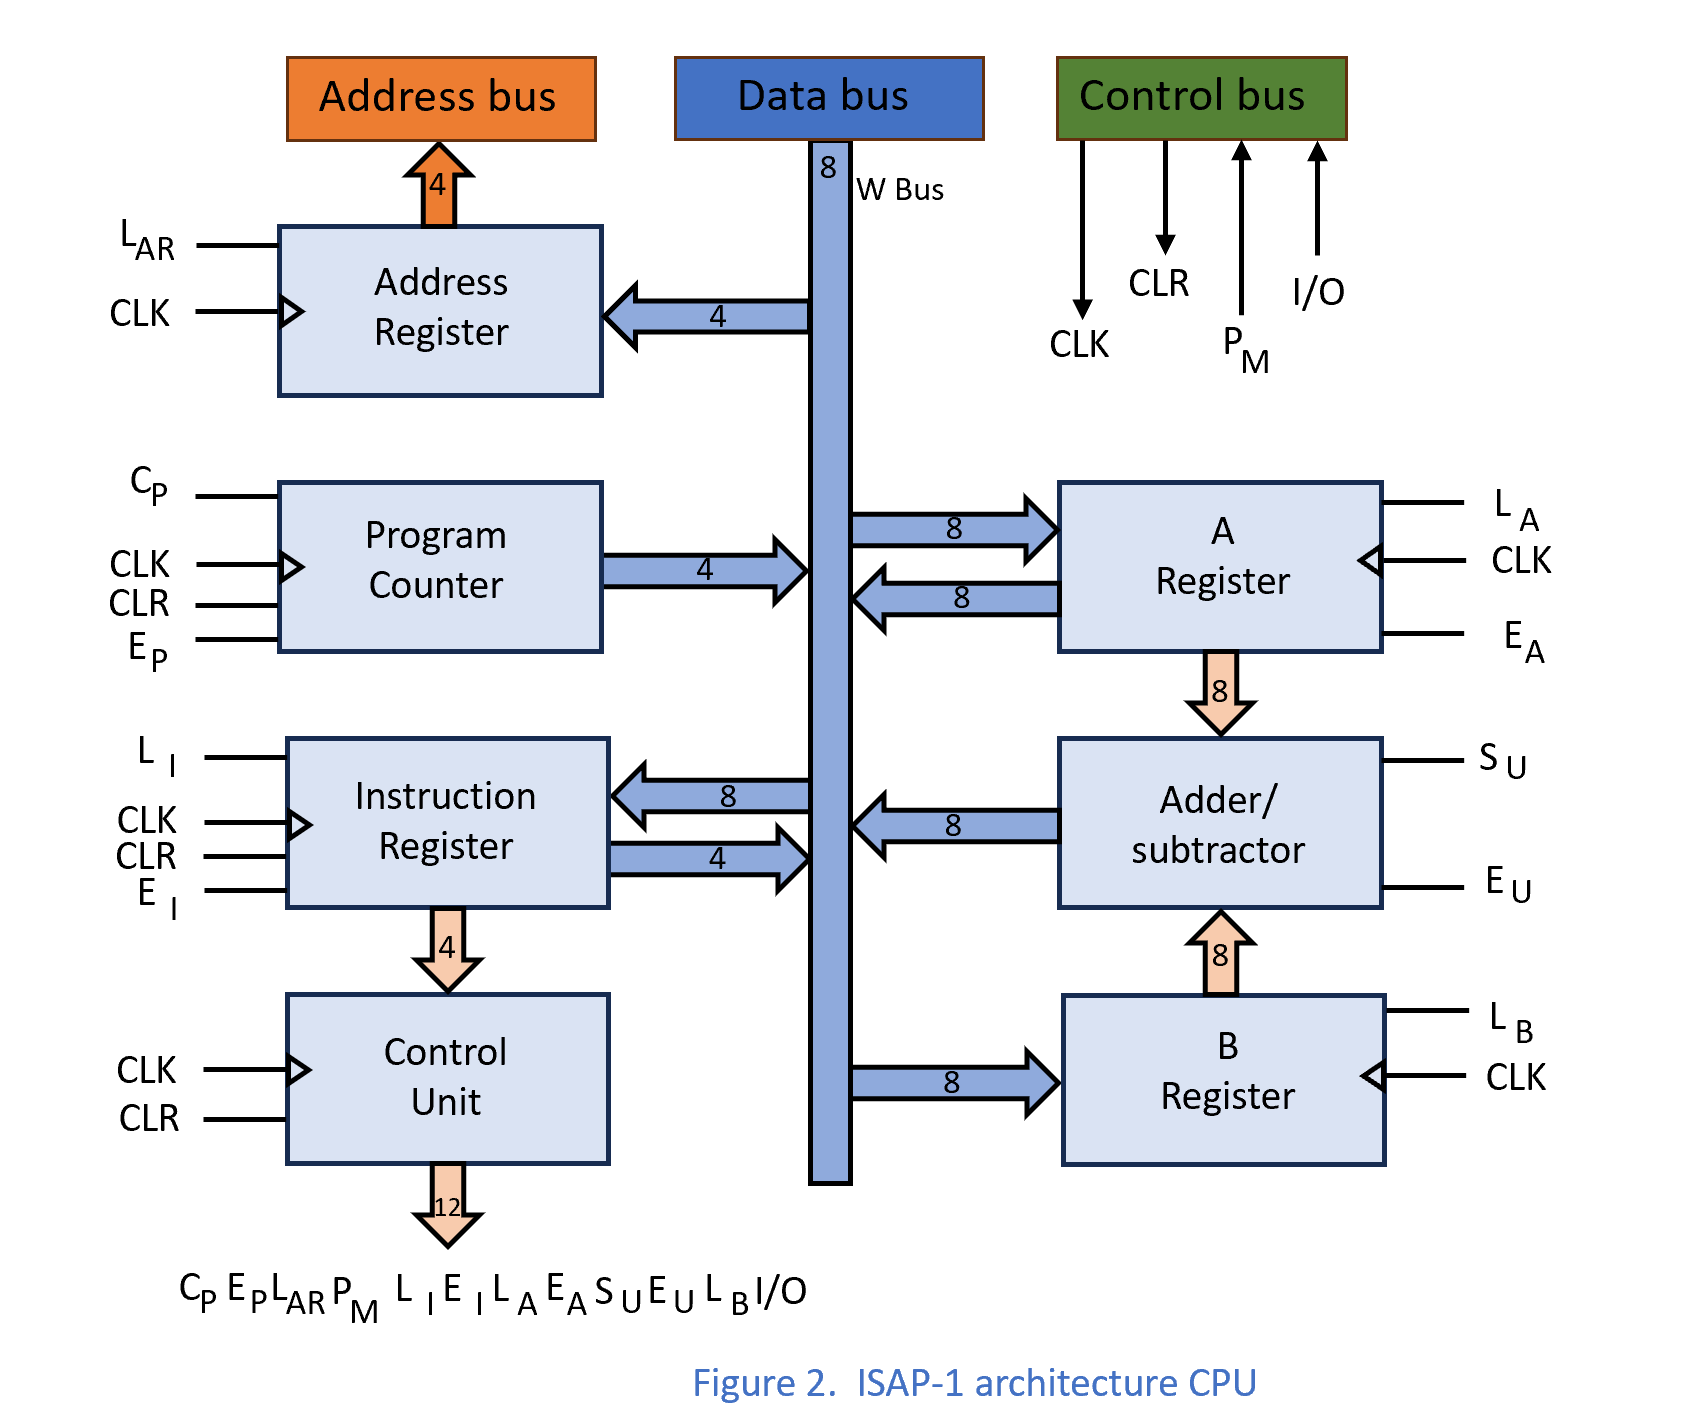
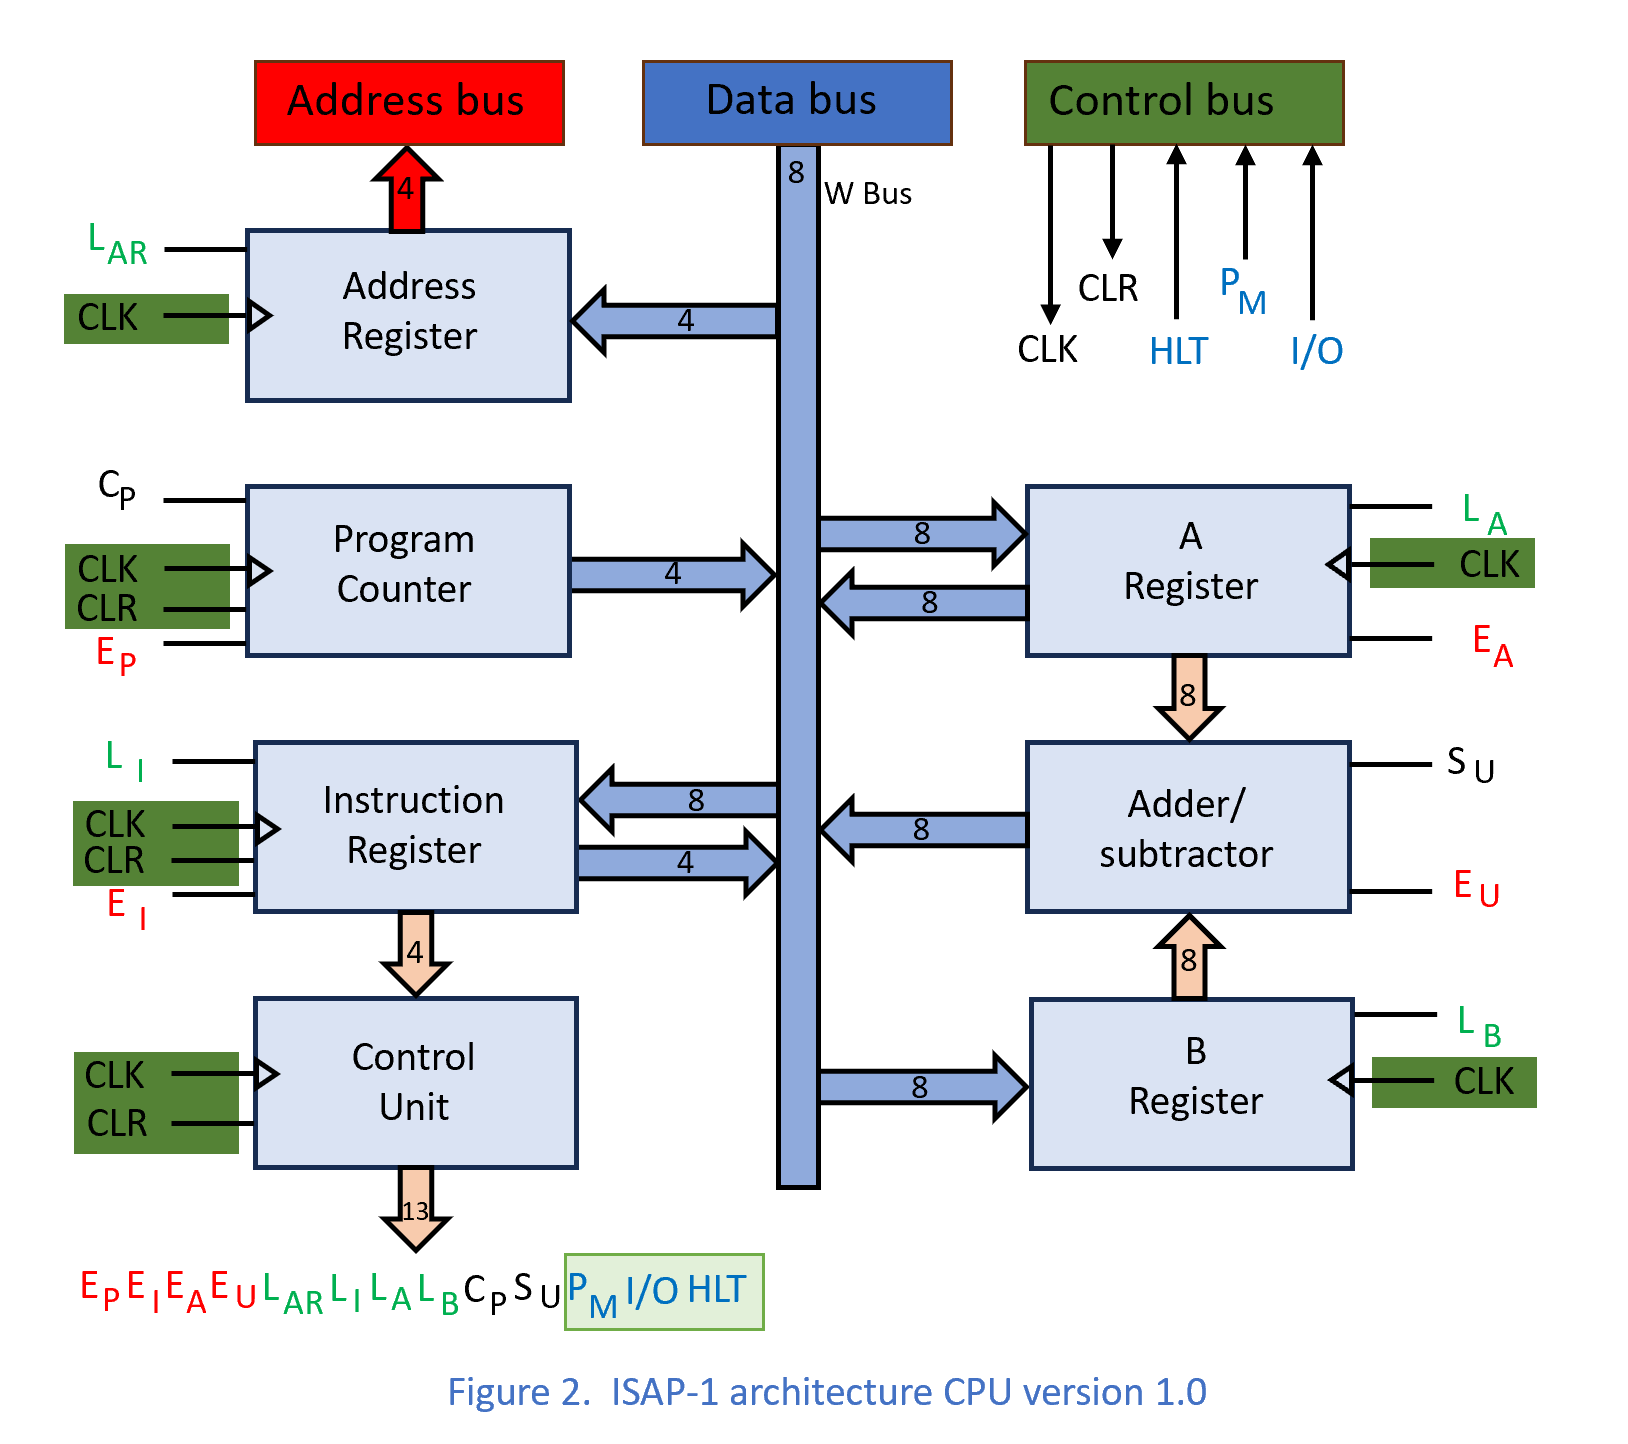
modified:   Pictures/Figure11.png modified:   Pictures/Figure2.png

diff --git a/README.md b/README.md
@@ -18,42 +18,16 @@ https://github.com/LincaMarius/ISAP-Computer
 
 where I optimized the SAP-1 computer to create the ISAP-1 computer.
 
-## ISAP-1 Model A Version 1
-
-The Structure of the ISAP-1 computer is:
+## ISAP-1 TTL version 1.0
+The Structure of the ISAP-1 version 1.0 computer is:
 
 ![ Figure 1 ](/Pictures/Figure1.png)
 
-The Block Diagram of the Central Processing Unit of the ISAP-1 computer is:
+The block diagram of the Central Processing Unit of the ISAP-1 computer version 1.0 is:
 
 ![ Figure 2 ](/Pictures/Figure2.png)
 
-### The format of the SAP-1 computer instructions is:
-
-| 4 bits instruction code   | 4 bits operand (memory address)          |
-|---------------------------|------------------------------------------|
-
-We notice that the upper nibble is used to encode an instruction.
-
-So, any instruction is encoded on 4 bits.
-
-Thus, we can have a maximum of 2 ^ 4 = 16 instructions.
-
-### The original instruction set of the SAP-1 computer is:
-
-| Mnemonic | Opcode | Operation                                  |
-|----------|--------|--------------------------------------------|
-| LDA      | 0000   | Load RAM data into Accumulator             |
-| ADD      | 0001   | Add RAM data to Accumulator                |
-| SUB      | 0010   | Substract RAM data from accumulator        |
-| OUT      | 1110   | Load Accumulator data into Output Register |
-| HLT      | 1111   | Stop processing                            |
-
-We can notice that the instructions 0011, 0100, 0101, 0110, 0111, 1000, 1001, 1010, 1011, 1100, 1101 are not used. So we can add 11 more new instructions.
-
-In total, 5 out of 16 possible instructions are implemented.
-
-In order to simulate the SAP-1 computer using the Logisim program, we must design each individual module that makes up the computer.
+In order to simulate the SAP-1 computer using the Logisim program, we must design each individual module that makes up the SAP-1 computer.
 
 For this purpose we must use the detailed block diagram of the SAP-1 computer which is presented in the following figure.
 
@@ -62,13 +36,14 @@ For this purpose we must use the detailed block diagram of the SAP-1 computer wh
 The first block to be implemented is Clock and Reset
 
 ### Clock and Reset Implementation
-The Clock and Reset Block has the following output signals:
+The Clock and Reset block has the following output signals:
 - CLK – clock signal that ensures synchronism in the operation of the Computer
-- CLR – computer reset signal that initializes the Program Counter, Instruction Register and Control Unit.
+- CLR – computer reset signal that initializes the Program Counter, Instruction Register and Control Unit
+- HLT – blocks the clock signal, thus the execution of any future instruction is stopped
 
-We have three control buttons:
-S5 – Reset button
-S6 – Program Step button
+We have three control buttons: \
+S5 – Reset button \
+S6 – Program Step button \
 S7 – Mode selection switch: Manual / Auto
 
 This information can be seen in figure 3.
@@ -82,8 +57,8 @@ Program Counter has the following input, output and control signals:
 - CP – Program Counter Counting - increment Program Counter content
 - CLK – Clock - clock signal that ensures synchronism in the operation of the computer
 - CLR – Clear - reset signal that initializes the Program Counter to zero
-- EP – Program Counter Enable - output activation for putting data from the Program Counter on the bus
-- DOUT – Data Output – connects to the bus
+- EP – Program Counter Enable - output activation for putting data from the Program Counter on the Bus
+- DOUT – Data Output – connects to the Bus
 
 The implementation of the Program Counter Block in Logisim is shown in the following figure:
 
@@ -116,12 +91,12 @@ Pin R is to display when this block is reading from the Bus.
 
 ### Instruction Register implementation
 The Instruction Register has the following input, output and control signals:
-- LI - loading data from the bus into the Instruction Register
+- LI - loading data from the Bus into the Instruction Register
 - CLK – clock signal that ensures synchronism in the operation of the computer
 - CLR – reset signal that initializes the Instruction Register to zero
-- EI – enable output to put data from the Instruction Register on the bus
-- DIN - Data Input – connects to the bus
-- DOUT - Data Output – connects to the bus
+- EI – enable output to put data from the Instruction Register on the Bus
+- DIN - Data Input – connects to the Bus
+- DOUT - Data Output – connects to the Bus
 - INSTR – output where the current instruction is presented to the Control Block
 
 The implementation of the Instruction Register block in Logisim is shown in the following figure:
@@ -143,8 +118,8 @@ The Accumulator register has the following input, output and control signals:
 - LA - load data from the Bus into the Accumulator Register
 - CLK - clock signal that ensures synchronism in the operation of the computer
 - EA - output control for putting data from the Accumulator Register on the Bus
-- Data Input - connects to the Bus
-- Data Output - connects to the Bus
+- DIN - Data Input - connects to the Bus
+- DOUT - Data Output - connects to the Bus
 - ALUA - the contents of the Accumulator are connected to the Arithmetic and Logic Unit
 
 The implementation of the Accumulator Register block in Logisim is shown in the following figure:
@@ -177,7 +152,11 @@ The output is connected to the Logic and Arithmetic Unit permanently.
 
 Pin R is to display when this block is reading from the bus.
 
-### Arithmetic and Logic Unit Implementation
+### Adder/Subtractor Implementation
+The SAP-1 computer does not have an Arithmetic and Logical Unit because the Logical Unit is missing.
+
+In the following we used the ALU notation for simplicity, even though we only have one Adder/Subtractor
+
 The Arithmetic and Logic Unit has the following input, output and control signals:
 - ALUA – the contents of the Accumulator Register are connected to the Arithmetic and Logic Unit as operand A
 - ALUB – the contents of Register B are connected to the Logical and Arithmetic Unit as operand B
@@ -198,7 +177,9 @@ The output to the Bus is provided by a three-state buffer and is active only whe
 The W pin has the role of displaying when the Result is writing to the Bus.
 
 ### Implementation of the RAM Memory module
-Figure 11 shows the Memory Block of the SAP-1 Computer seen from a functional point of view by the Computer when running a program.
+Figure 1 shows the structure of the SAP-1 computer seen from a modular point of view.
+
+Figure 11 shows the Memory block of the SAP-1 computer and its connection to the system.
 
 ![ Figure 11 ](/Pictures/Figure11.png)
 
